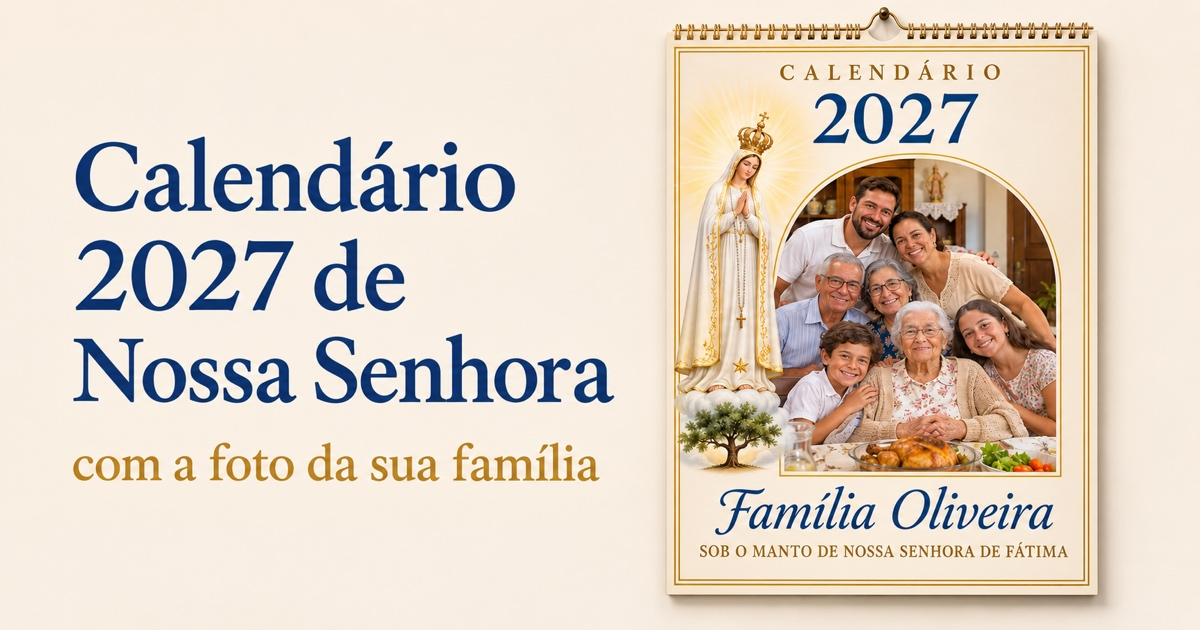
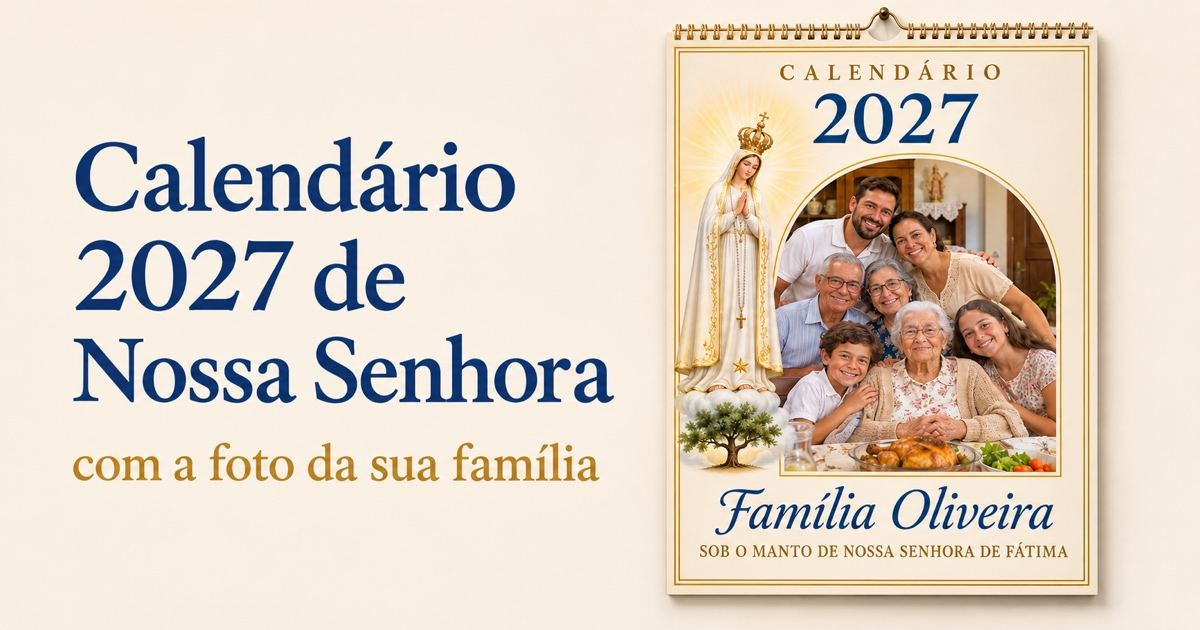
Imagens em webp (9,4 MB para 2,4 MB)

diff --git a/index.html b/index.html
@@ -191,7 +191,7 @@ img{display:block;max-width:100%}
    ===================================================== */
 const CONFIG = {
   marca: "Calendário 2027 · Nossa Senhora",
-  logo: "",                         // ex: "img/logo.png" (vazio = mostra o texto acima)
+  logo: "",                         // ex: "img/logo.webp" (vazio = mostra o texto acima)
   campanha: "[NOME DA CAMPANHA]",
   ondeVai: "[Escreva em 2 ou 3 linhas pra onde vai a ajuda: reforma da capela, cestas básicas, missões...]",
   prazo: "[Escreva o prazo de entrega]",
@@ -214,16 +214,16 @@ const CONFIG = {
 
 /* Imagens: coloque os arquivos na pasta img/ com estes nomes */
 const IMG = {
-  abertura: "img/abertura.jpg",
-  fatima: "img/fatima.jpg",
-  aparecida: "img/aparecida.jpg",
-  gracas: "img/gracas.jpg",
-  nos: "img/desatadora.jpg",
-  socorro: "img/socorro.jpg",
-  todas: "img/todas.jpg",
-  acolhimento: "img/acolhimento.jpg",
-  carrossel: ["img/carrossel-1.jpg", "img/carrossel-2.jpg", "img/carrossel-3.jpg", "img/carrossel-4.jpg"],
-  final: "img/final.jpg",
+  abertura: "img/abertura.webp",
+  fatima: "img/fatima.webp",
+  aparecida: "img/aparecida.webp",
+  gracas: "img/gracas.webp",
+  nos: "img/desatadora.webp",
+  socorro: "img/socorro.webp",
+  todas: "img/todas.webp",
+  acolhimento: "img/acolhimento.webp",
+  carrossel: ["img/carrossel-1.webp", "img/carrossel-2.webp", "img/carrossel-3.webp", "img/carrossel-4.webp"],
+  final: "img/final.webp",
 };
 
 /* =====================================================
